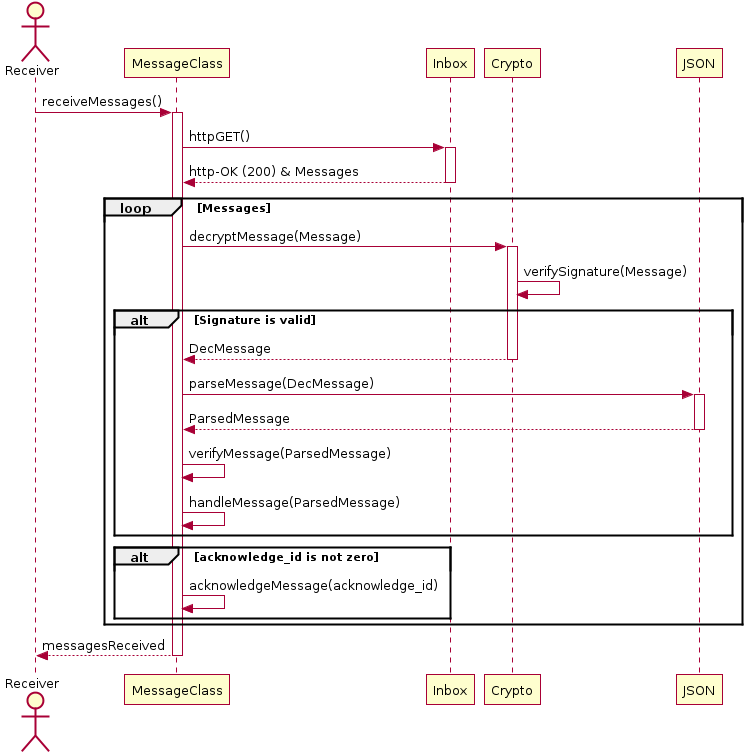
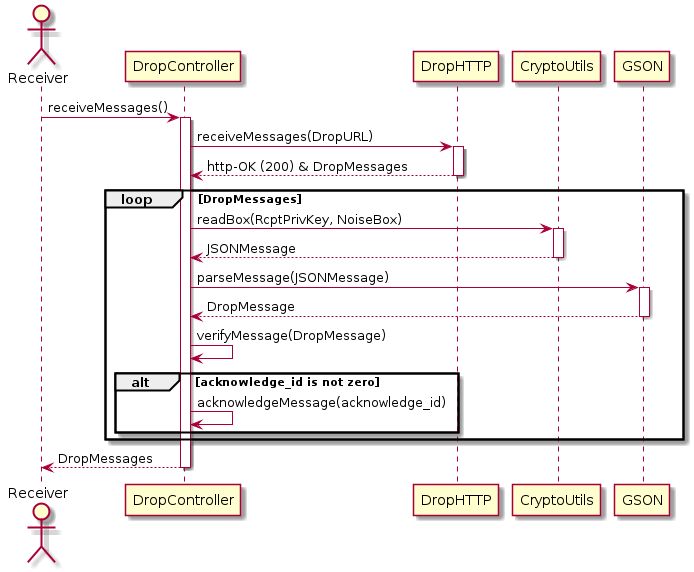
Included Noise into documentation

Changed region(s): [[0.0, 0.0, 0.9986, 1.0], [0.5447, 0.0594, 0.9986, 0.1783], [0.6657, 0.5647, 0.696, 0.5944]]

diff --git a/_docs/Qabel-Client-Drop.md b/_docs/Qabel-Client-Drop.md
@@ -30,11 +30,11 @@ Alice (sender) wants to write a message to Bob (recipient). Alice has Bobs addre
 The client will send the message to the server.
 
 **On sending success:**
-The server will return the specific [response](https://github.com/Qabel/intern-doc/wiki/Qabel-Protocol-Drop#methods).
+The server will return the specific [response](../Qabel-Protocol-Drop#methods).
 The message will be added to the history if this is wanted.
 
 **On sending failure:**
-The server will return the specific [response](https://github.com/Qabel/intern-doc/wiki/Qabel-Protocol-Drop#methods).
+The server will return the specific [response](../Qabel-Protocol-Drop#methods).
 The user will be informed and/or the client will try to resend the message.
 
 #### Get message
@@ -42,10 +42,10 @@ Alice (receiver) wants to receive new messages. Alice has a private key and an a
 The client will request new messages from the server.
 
 **On receiving success:**
-The server will return a specific [response] (https://github.com/Qabel/intern-doc/wiki/Qabel-Protocol-Drop#methods) including the new messages.
+The server will return a specific [response] (../Qabel-Protocol-Drop#methods) including the new messages.
 
 **On receiving failure:**
-The server will return a specific [response] (https://github.com/Qabel/intern-doc/wiki/Qabel-Protocol-Drop#methods).
+The server will return a specific [response] (../Qabel-Protocol-Drop#methods).
 The user will be informed and/or the client will retry to receive the messages.
 
 ### Format and structure of a message
@@ -57,6 +57,7 @@ A message is packed into JSON containing the following fields:
 | **time_stamp** | INT | Date of message generation. |
 | **acknowledge_id** | STR | Acknowledge ID for acknowledging this message |
 | **sender** | STR | The [key id](../Components-Crypto/#key-identifier) of sender's public key. |
+| **receiver** | STR | The [key id](../Components-Crypto/#key-identifie) of the receiver's public key. |
 | **model_object** | STR | The name of the model object that handles this message. |
 | **data** | JSON object | The payload of the message. |
 
@@ -110,24 +111,7 @@ The following error types:
 ![Sequence diagram receive messages](/images/sequencediagram_receive_messages.png)
 
 ### Encryption
-Encryption follows the general encrypt-and-sign scheme described in the [general crypto documentation](../Components-Crypto/#encrypt-and-sign).
-
-#### Padding
-Prior to encryption, the serialized messages are padded to a fixed size of 2048 byte in order to avoid the metadata content length.
-
-#### Asymmetric encryption.
-The padded message is encrypted using AES in CTR mode with a random key of 256 bits and an IV, consisting of a 96 bit random nonce and a 32 bit counter which always starts to count at 1, forming the ciphertext.
-The AES key is encrypted with RSA OAEP encryption scheme using the recipients public encryption key (cf. [multiple key-pair concept](../Components-Crypto/#multiple-key-pair-concept)).
-The encrypted message is created by concatenating three fields without any delimiter; the encrypted AES key, the AES nonce (first 12 bytes of the IV), and the ciphertext.
-For example, with a 2048 bit RSA key the encrypted message looks like this:
-
-```json
-  RSA_encrypt([256 byte AES key])[12 bytes AES nonce][2K-1-2048-12 bytes AES ciphertext]
-```
-
-#### Signature
-
-A digest of the final encrypted message including header, the encrypted AES key, the AES nonce, and the ciphertext is created via the SHA512 hash function. The digest is signed with the senders private signing key (cf. [multiple key-pair concept](../Components-Crypto/#multiple-key-pair-concept)) using the RSASSA-PSS scheme. The signature is appended to the previously created encrypted message, forming the authenticated encrypted message.
+Drop messages are encrypted into Noise boxes.
 
 ### Transport format
 The following section defines the protocl data unit (PDU) of the Qabel Drop protocol.
@@ -139,11 +123,12 @@ The PDU starts with a version byte to indicate the version of PDU format.
 
 | Message part | Field | Description | Length (in Bytes) |
 | ------------ | ----- | ----------- | ---------------: |
-| **Header** (unencrypted) | Version | Version of the Qabel Drop PDU format (here 0)| 1 |
-| **Key** | Key (encrypted with the public key of the recipient) | Newly generated key used with the symmetric block cipher to encrypt the data | 256 |
-|         | Initialisation data (unencrypted) | Data to initialize a symmetric block cipher (e.g. an nonce) | 12 |
-| **Data** (encrypted with symmetric block cipher) | Payload + Padding | Original Qabel drop message appended by padding | 2048 |
-| **Signature** | Signature | Digital signature of Header, Key and Data made with sender's private key | 256 |
+| **Header** (unencrypted) | Version | Version of the Qabel drop message format | 1 |
+| **Body** | Noise box | Drop message encrypted into a Noise box | *variable* |
+
+#### Header
+The header is unencrypted and consists at least of a one-byte version number indicating
+the version of the binary Qabel Drop message.
 
 ### History / Persistence
 

diff --git a/_docs/Qabel-Client-Configuration.md b/_docs/Qabel-Client-Configuration.md
@@ -114,8 +114,8 @@ Summary
 | --- | ----------- |
 | id | Unique identifier |
 | updated, created, deleted | timestamp in [seconds since epoc](http://pubs.opengroup.org/onlinepubs/9699919799/basedefs/V1_chap04.html#tag_04_15) |
-| url | [URL](https://github.com/Qabel/intern-doc/wiki/Qabel-Protocol-Drop#url) of the drop server (excluding the drop id) |
-| auth | Credential for optional, additional [access regulation](https://github.com/Qabel/intern-doc/wiki/Components-Drop#unrestricted-access) (e.g. a group password). |
+| url | [URL](../Qabel-Protocol-Drop#url) of the drop server (excluding the drop id) |
+| auth | Credential for optional, additional [access regulation](../Components-Drop#unrestricted-access) (e.g. a group password). |
 | active | Status flag |
 
 Summary
@@ -151,7 +151,7 @@ Summary
 | --- | ----------- |
 | id | Unique identifier |
 | updated, created, deleted | timestamp in [seconds since epoc](http://pubs.opengroup.org/onlinepubs/9699919799/basedefs/V1_chap04.html#tag_04_15) |
-| url | URL of the [storage server](https://github.com/Qabel/intern-doc/wiki/Qabel-Protocol-Storage#url), excluding `public` which identifies a single Storage Volume on the server |
+| url | URL of the [storage server](../Qabel-Protocol-Storage#url), excluding `public` which identifies a single Storage Volume on the server |
 | auth | Optional credential (see [drop server](#drop-server)) |
 
 
@@ -217,13 +217,9 @@ Summary
 | id | Unique identifier |
 | updated, created, deleted | timestamp in [seconds since epoc](http://pubs.opengroup.org/onlinepubs/9699919799/basedefs/V1_chap04.html#tag_04_15) |
 | alias | Textual, user-defined label identifying this identity (also to other users) |
-| private_primary_key | Private, secret part of the key pair used signing of sub-keys |
-| public_primary_key | Public part of the key pair used signing of sub-keys |
-| private_enc_key | Private, secret part of the key pair used for (de-)encryption |
-| public_enc_key | Public part of the key pair used for (de-)encryption |
-| private_sign_key | Private, secret part of the key pair used for signing |
-| public_sign_key | Public part of the key pair used for signing |
-| drops | List of [urls](https://github.com/Qabel/intern-doc/wiki/Qabel-Protocol-Drop#url) of the drops where the identity expects to receive messages |
+| private_key | Private, secret part of the key pair |
+| public_key | Public part of the key pair |
+| drops | List of [urls](../Qabel-Protocol-Drop#url) of the drops where the identity expects to receive messages |
 
 
 Summary
@@ -236,12 +232,8 @@ Summary
                         'alias' : NAME,
                         'keys' :
                                 "{"
-                                'private_primary_key' : KEY,
-                                'public_primary_key' : KEY,
-                                'private_enc_key' : KEY,
-                                'public_enc_key' : KEY,
-                                'private_sign_key' : KEY,
-                                'public_sign_key' : KEY
+                                'private_key' : KEY,
+                                'public_key' : KEY,
                                 "}",
                         'drops' : [URL]
                         "}"

diff --git a/_docs/Components-Crypto.md b/_docs/Components-Crypto.md
@@ -3,50 +3,27 @@ title: "Components: Crypto"
 ---
 # Crypto Component Specification
 
-## Algorithms
-If not stated otherwise the Crypto API uses the following primitives.
+## Encryption
 
-### Symmetric Cipher
-For symmetric encryption, we use AES in Counter Mode (CTR).
+### Drop messages
+Drop messages are encrypted using Noise boxes with Curve25519 and AES-GCM. See https://github.com/trevp/noise for further details on Noise. 
+
+### Files
+Files are encrypted with AES in Galois Counter Mode (GCM).
 The default key size is 256 bit.
-We use an IV consisting of a random nonce of 12 bytes and a counter of 4 bytes.
+An IV consisting of a random nonce of 12 bytes and a counter of 4 bytes is used.
 
-### Asymmetric Cipher
-For asymmetric, public key encryption we use RSA OAEP.
-For signatures we use RSASSA-PSS.
-The default key size is 2048 bit.
+## Keys
+Curve25519 private keys are 32 bytes of random data.
 
-### Hash Algorithms
-The default hash algorithm is SHA512.
+### Key Management
+Each Qabel identity consists of a Curve25519 key pair. Since Noise uses ephemeral key pairs for each created box, the key management is rather simple and requires no additional keys.
 
 ## Crypto API
 The focus of this API is to prevent misuse of crypto primitives.
 
-### Encrypt
+### Encrypt File
 Symmetrically encrypt given data with a given key.
-Append a HMAC to the ciphertext.
 
-### Encrypt and Sign
-Symmetrically encrypt given data with a new secret key.
-Asymmetrically encrypt the symmetric key using the recipients public encryption key.
-Concatenate the encrypted symmetric key, the nonce, and the ciphertext without any delimiter.
-Sign the resulting message using the senders private signing key.
-
-## Public-Key Fingerprinting
-Concatenate the big-endian byte array representations of the key's modulus and exponent without any delimiter.
-Compute the fingerprint as the hash sum of the resulting array.
-
-### Key Identifier
-Key identifiers (key ids) are the right-most 64 bit of a key's fingerprint.
-
-## Key Management
-### Multiple Key-pair Concept
-In asymmetric cryptography applications, it is common practice to use different
-key-pairs for encryption and signing in order to reduce the risk of cryptographic attacks.
-Therefore, Qabel has a multiple key-pair concept, where each key-pair is only used for one
-purpose (encrypting or signing).
-At least three key-pairs are involved:
-* one or more *encryption sub-keys* used for encryption of data,
-* one or more *signing sub-keys* used for digital signing of data,
-* a *primary key* used to cryptographically bundle the sub-keys together and
-  to represent the contact.
+### Encrypt Noise box
+Creates a Noise box using the senders private key, the recipients public key and the Drop message. 
